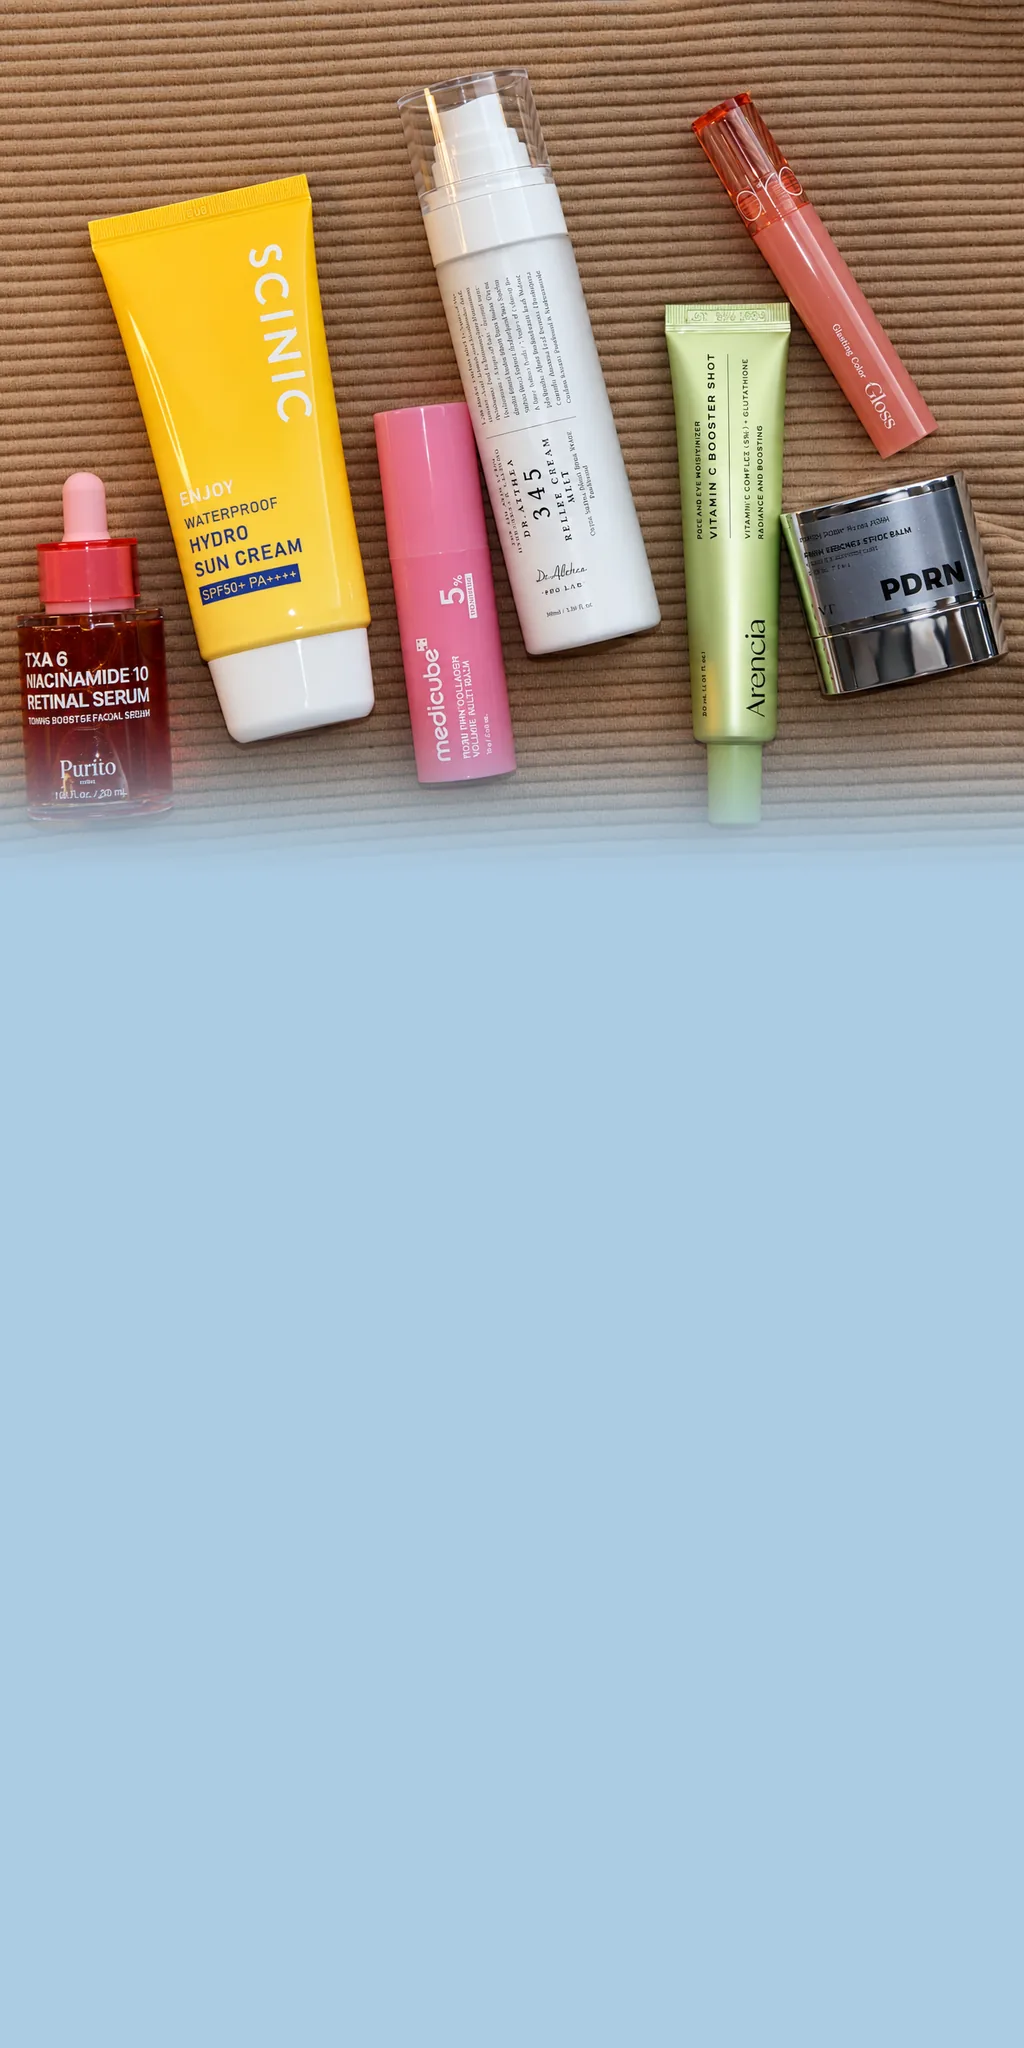
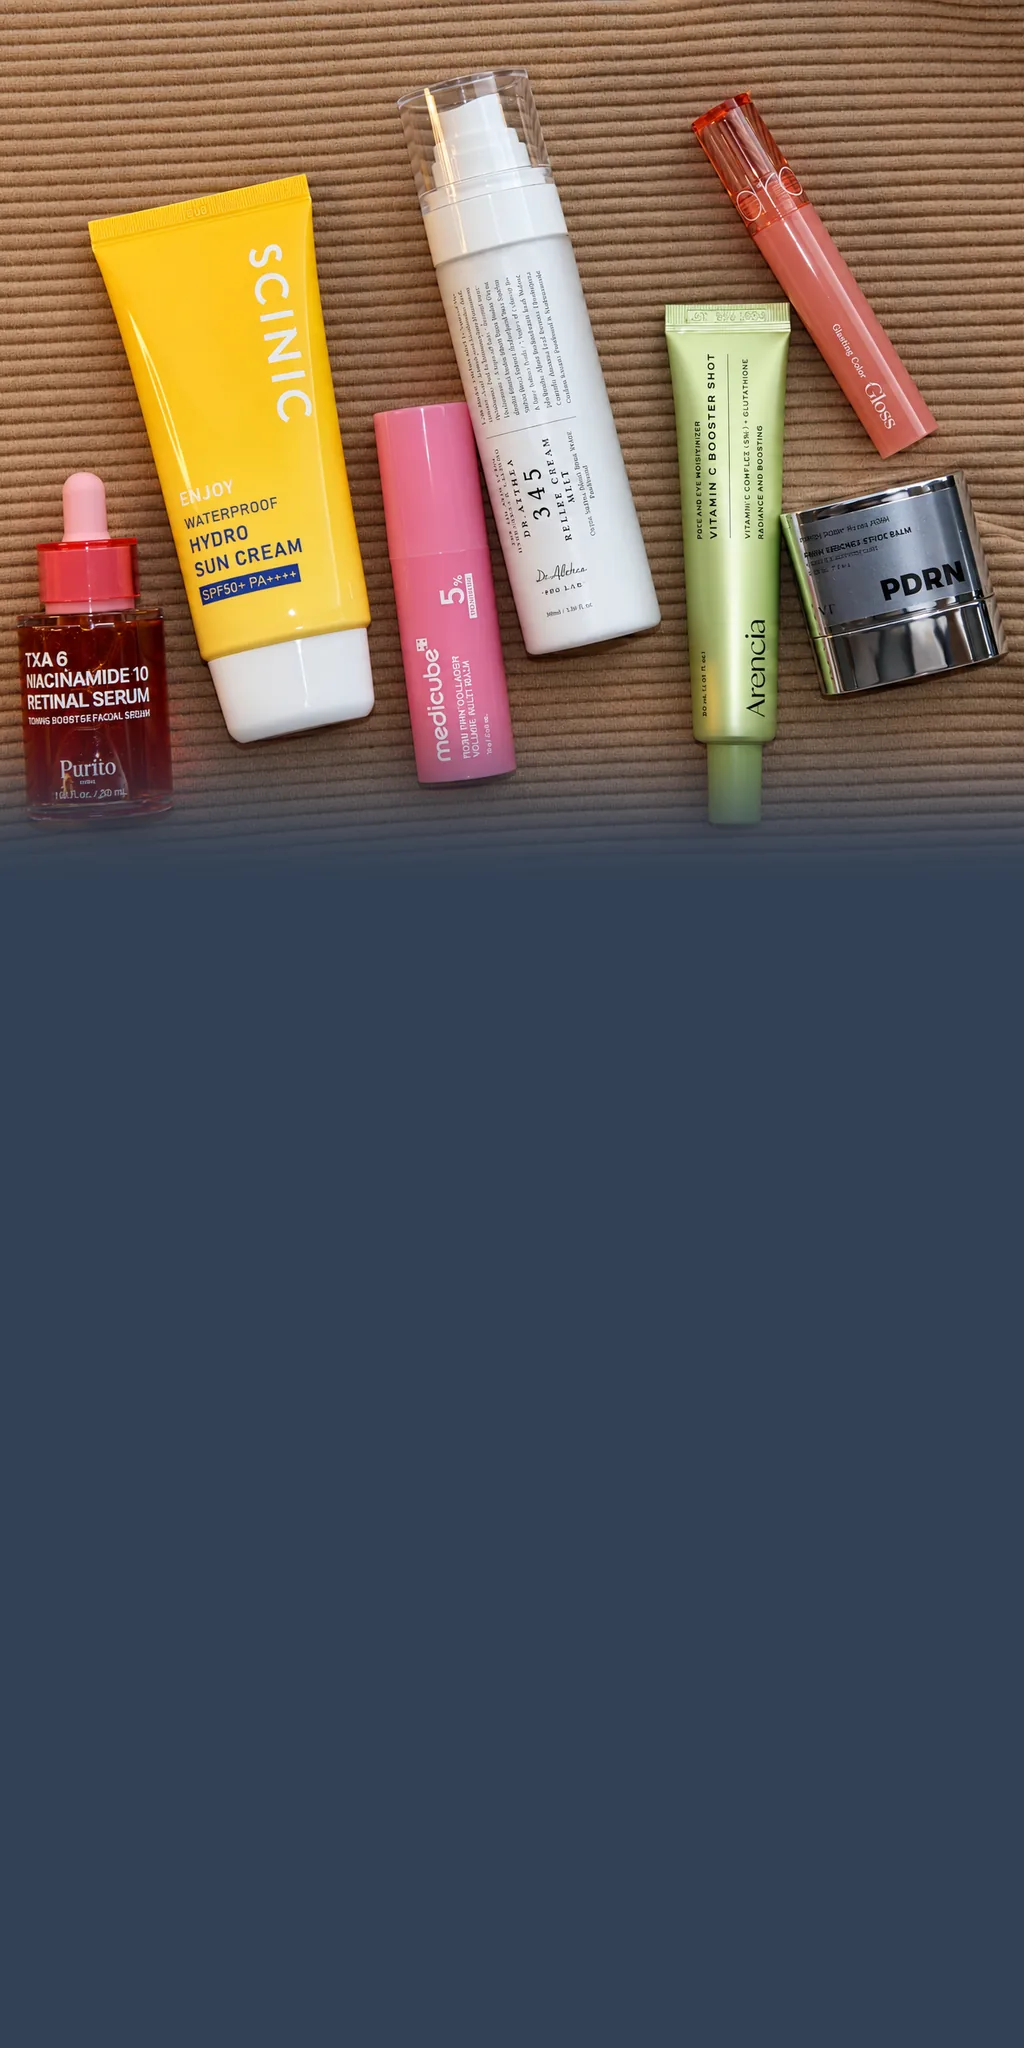
feat: degradado del hero en celular con el color del botón Admin
- En celular, los slides 1 y 3 usan slate-700 (#334155), el mismo color
  del botón para entrar al panel admin, en el degradado y en el fondo en
  que se funde la foto (imágenes regeneradas).
- Vuelven el texto blanco, la etiqueta y el botón celestes y los puntos
  blancos en esos slides. El slide 2, tablet y escritorio no cambian.

diff --git a/src/routes/+page.svelte b/src/routes/+page.svelte
@@ -56,11 +56,10 @@
 		fondoMovil?: string;
 		/**
 		 * Color del degradado de celular detrás del texto en las fotos
-		 * oscuras: por defecto casi negro (texto blanco); "logo" usa el
-		 * celeste del logo (#accce4), y como es claro, en celular ese
-		 * slide lleva texto oscuro, etiqueta azul y botón blanco.
+		 * oscuras: por defecto casi negro; "admin" usa el gris azulado del
+		 * botón para entrar al panel admin (slate-700, #334155).
 		 */
-		degradadoMovil?: "logo";
+		degradadoMovil?: "admin";
 		/**
 		 * "angosto": en lg el texto ocupa solo el primer tercio, porque la
 		 * foto tiene contenido en casi todo el ancho.
@@ -81,8 +80,8 @@
 			lado: "izquierda",
 			tono: "oscuro",
 			encuadreMovil: "arriba",
-			fondoMovil: "#accce4", // celeste del logo
-			degradadoMovil: "logo",
+			fondoMovil: "#334155", // slate-700, como el botón Admin
+			degradadoMovil: "admin",
 			etiqueta: textos.heroEtiqueta,
 			titulo: textos.heroTitulo,
 			subtitulo: textos.heroSubtitulo,
@@ -108,8 +107,8 @@
 			lado: "izquierda",
 			tono: "oscuro",
 			encuadreMovil: "arriba",
-			fondoMovil: "#accce4", // celeste del logo
-			degradadoMovil: "logo",
+			fondoMovil: "#334155", // slate-700, como el botón Admin
+			degradadoMovil: "admin",
 			anchoTexto: "angosto",
 			etiqueta: "CALMA · CENTELLA",
 			titulo: "Menos pasos,\nmás glow.",
@@ -134,40 +133,18 @@
 	// celular y en lg el texto va encima de la foto; en tablet va debajo,
 	// sobre blanco, así que ahí siempre es gris.
 	const fotoOscura = $derived(slideHeroActual.tono === "oscuro");
-	// Con el degradado celeste del logo, en celular el fondo del texto es
-	// claro: texto oscuro (en tablet sigue gris y en lg blanco sobre la foto).
-	const degradadoClaro = $derived(slideHeroActual.degradadoMovil === "logo");
 	const claseTituloHero = $derived(
-		!fotoOscura
-			? "text-slate-600"
-			: degradadoClaro
-				? "text-slate-700 md:text-slate-600 lg:text-white"
-				: "text-white md:text-slate-600 lg:text-white",
+		fotoOscura ? "text-white md:text-slate-600 lg:text-white" : "text-slate-600",
 	);
 	const claseSubtituloHero = $derived(
-		!fotoOscura
-			? "text-slate-600"
-			: degradadoClaro
-				? "text-slate-700 md:text-slate-600 lg:text-white/90"
-				: "text-white/90 md:text-slate-600 lg:text-white/90",
-	);
-	// La etiqueta es del mismo celeste del logo: sobre ese fondo, en
-	// celular, va en azul oscuro.
-	const claseEtiquetaHero = $derived(
-		degradadoClaro ? "text-sky-800 md:text-[#accce4]" : "text-[#accce4]",
-	);
-	const claseBotonHero = $derived(
-		degradadoClaro ? "bg-white md:bg-sky-200" : "bg-sky-200",
+		fotoOscura
+			? "text-white/90 md:text-slate-600 lg:text-white/90"
+			: "text-slate-600",
 	);
 
 	function clasePuntoHero(activo: boolean) {
 		if (!fotoOscura) {
 			return activo ? "w-8 bg-slate-600" : "w-2 bg-slate-600/30 hover:bg-slate-600/60";
-		}
-		if (degradadoClaro) {
-			return activo
-				? "w-8 bg-slate-700 md:bg-slate-600 lg:bg-white"
-				: "w-2 bg-slate-700/30 hover:bg-slate-700/60 md:bg-slate-600/30 md:hover:bg-slate-600/60 lg:bg-white/40 lg:hover:bg-white/70";
 		}
 		return activo
 			? "w-8 bg-white md:bg-slate-600 lg:bg-white"
@@ -717,8 +694,8 @@
 				<div
 					class="absolute inset-0 bg-linear-to-t to-transparent md:hidden {slide.tono ===
 					'oscuro'
-						? slide.degradadoMovil === 'logo'
-							? 'from-[#accce4] via-[#accce4]/70 to-75%'
+						? slide.degradadoMovil === 'admin'
+							? 'from-slate-700 via-slate-700/60 to-75%'
 							: 'from-slate-950/80 via-slate-950/35 to-75%'
 						: 'from-white via-white/80 to-70%'}"
 				></div>
@@ -763,7 +740,7 @@
 			>
 				<p
 					in:fly={{ x: desplazamiento, duration: 800, delay: 250, easing: cubicOut }}
-					class="font-Manrope text-sm font-bold uppercase tracking-[0.2em] sm:text-base {claseEtiquetaHero}"
+					class="font-Manrope text-sm font-bold uppercase tracking-[0.2em] text-[#accce4] sm:text-base"
 				>
 					{slideHeroActual.etiqueta}
 				</p>
@@ -794,7 +771,7 @@
 
 				<a
 					in:fly={{ y: 20, duration: 700, delay: 600, easing: cubicOut }}
-					class="mt-6 inline-flex min-h-12 items-center justify-center rounded-full {claseBotonHero} px-8 py-3 font-Manrope text-base font-semibold text-slate-600 transition duration-300 hover:-translate-y-1 hover:bg-slate-600 hover:text-white hover:shadow-lg sm:px-10 sm:text-lg lg:mt-8 lg:px-12"
+					class="mt-6 inline-flex min-h-12 items-center justify-center rounded-full bg-sky-200 px-8 py-3 font-Manrope text-base font-semibold text-slate-600 transition duration-300 hover:-translate-y-1 hover:bg-slate-600 hover:text-white hover:shadow-lg sm:px-10 sm:text-lg lg:mt-8 lg:px-12"
 					href="/products"
 				>
 					{slideHeroActual.boton}
